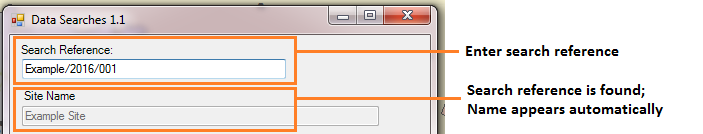
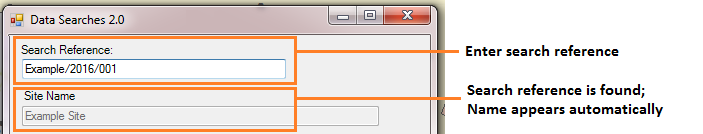
Final changes for ArcGIS v. 2.0
Final changes to this for ArcGIS version 2.0 including correct XML.

Changed region(s): [[0.0, 0.0896, 0.1792, 0.209]]

diff --git a/appendix/appendix.rst b/appendix/appendix.rst
@@ -38,20 +38,25 @@ Below is an example of XML that might be used to set up the Data Searches tool i
     <configuration>
     <!--- General attributes -->
     <DataSearches>
-        <!-- The database where all the data search details are stored. -->
+        <!-- The database where all the data search details are stored. This may be left blank. -->
         <Database>
             <value>H:\Access\DataSearchesDetails.mdb</value>
         </Database>
 
-        <!-- The field name of the search reference unique value. -->
+        <!-- The field name of the search reference unique value in the database. -->
         <RefColumn>
             <value>EnquiryRef</value>
         </RefColumn>
 
-        <!-- The field name of the search reference site name. -->
+        <!-- The field name of the search reference site name in the database. -->
         <SiteColumn>
             <value>SiteName</value>
         </SiteColumn>
+
+        <!-- Is a site name required? Yes/No -->
+        <RequireSiteName>
+            <value>No</value>
+        </RequireSiteName>
 
         <!-- The character(s) used to replace any special characters in folder
              names. Space is allowed -->
@@ -64,7 +69,7 @@ Below is an example of XML that might be used to set up the Data Searches tool i
             <value>H:\DataSearches\LayerFiles</value>
         </LayerFolder>
 
-        <!-- The file location where all data search folders are stored. -->
+        <!-- The file location where all data search output folders are stored. -->
         <SaveRootDir>
             <value>H:\DataSearches\Reports</value>
         </SaveRootDir>
@@ -110,6 +115,11 @@ Below is an example of XML that might be used to set up the Data Searches tool i
             <value>3</value>
         </DefaultBufferUnit>
 
+        <!-- Should the buffer be kept as a GIS file? Yes/No -->
+        <KeepBufferArea>
+            <value>Yes</value>
+        </KeepBufferArea>
+
         <!-- The name of the buffer symbology layer file -->
         <BufferLayerName>
             <value>BufferOutline.lyr</value>
@@ -131,6 +141,17 @@ Below is an example of XML that might be used to set up the Data Searches tool i
         <SearchColumn>
             <value>ref</value>
         </SearchColumn>
+
+        <!-- Should the search feature be kept as a GIS layer? Yes/No -->
+        <KeepSearchFeature>
+            <value>Yes</value>
+        </KeepSearchFeature>
+
+        <!-- The base name of the search layer symbology file (without the .lyr). 
+        Note the relevant extension (from SearchLayerExtensions) and the .lyr will be added -->
+        <SearchSymbologyBase>
+            <value>FeatureSymbology</value>
+        </SearchSymbologyBase>
 
         <!-- The buffer aggregate column values. Delimited with semicolons -->
         <AggregateColumns>
@@ -175,12 +196,12 @@ Below is an example of XML that might be used to set up the Data Searches tool i
 
         <!-- The column names of the combined sites table -->
         <CombinedSitesTable>
+            <Name>
+                <value>Sites_%subref%</value> <!-- do not include .txt or .csv -->
+            </Name>
             <Columns>
                 <value>Site_Type,Site_Name,Site_Area,Map_Label</value>
             </Columns>
-            <Suffix>
-                <value>_sites</value>
-            </Suffix>
             <Format>
                 <value>csv</value>
             </Format>
@@ -200,12 +221,12 @@ Below is an example of XML that might be used to set up the Data Searches tool i
                     the Table of Contents in ArcMap -->
                     <value>ExampleSpeciesPoints</value>
                 </LayerName>
-                <Prefix> <!-- The prefix used for any GIS data extracts -->
+                <GISOutputName> <!-- The prefix used for any GIS data extracts -->
                     <value>ExampleSpecies</value>
-                </Prefix>
-                <Suffix> <!-- The suffix used for any tabular extracts -->
+                </GISOutputName>
+                <TableOutputName> <!-- The suffix used for any tabular extracts -->
                     <value>_spp_pts</value>
-                </Suffix>
+                </TableOutputName>
                 <Columns> <!-- The columns to be used in the tabular extracts -->
                     <value>Species, Year, COUNT_Spec</value> <!-- Use commas to
                         separate. NOTE case sensitive! -->
@@ -215,7 +236,7 @@ Below is an example of XML that might be used to set up the Data Searches tool i
                     <value>Species, Year</value> <!-- Use commas to separate.
                            NOTE case sensitive! -->
                 </GroupColumns>
-                <StatisticsColumns> <!-- If grouping is used, any statistics
+                <StatisticsColumns> <!-- Any statistics
                     that should be generated. -->
                     <value>Species;COUNT</value><!-- example: area_ha;SUM$
                            Status;FIRST -->
@@ -311,12 +332,12 @@ Below is an example of XML that might be used to set up the Data Searches tool i
                 <LayerName>
                     <value>SACs</value> <!-- Name in TOC -->
                 </LayerName>
-                <Prefix>
+                <GISOutputName>
                     <value>SACs</value>
-                </Prefix>
-                <Suffix>
+                </GISOutputName>
+                <TableOutputName>
                     <value>_sacs</value>
-                </Suffix>
+                </TableOutputName>
                 <Columns>
                     <value>SAC_NAME, SAC_CODE</value> <!-- Use commas to separate.
                         NOTE case sensitive! -->
@@ -398,12 +419,12 @@ Below is an example of XML that might be used to set up the Data Searches tool i
                 <LayerName>
                     <value>SPAs</value>
                 </LayerName>
-                <Prefix>
+                <GISOutputName>
                     <value>SPAs</value>
-                </Prefix>
-                <Suffix>
+                </GISOutputName>
+                <TableOutputName>
                     <value>_spas</value>
-                </Suffix>
+                </TableOutputName>
                 <Columns>
                     <value>SPA_NAME</value> <!-- Use commas to separate.
                         NOTE case sensitive! -->
@@ -489,12 +510,12 @@ Below is an example of XML that might be used to set up the Data Searches tool i
                 <LayerName>
                     <value>NNRs</value>
                 </LayerName>
-                <Prefix>
+                <GISOutputName>
                     <value>NNRs</value>
-                </Prefix>
-                <Suffix>
+                </GISOutputName>
+                <TableOutputName>
                     <value>_nnrs</value>
-                </Suffix>
+                </TableOutputName>
                 <Columns>
                     <value>NNR_NAME, theBla</value> <!-- Use commas to separate.
                         NOTE case sensitive! -->

diff --git a/setup/setup.rst b/setup/setup.rst
@@ -223,11 +223,11 @@ The attributes that are required for each map layer are as follows:
 LayerName
 	The name of the layer as it is shown in the GIS interface. Characters that cannot be included in the layer name are ``/`` and ``&`` as they will cause the tool to fail. The characters ``-``, ``_``, ``+`` and ``\`` are permitted.
 
-Prefix
-	The prefix will be used to start the name of any GIS layer that is exported from this data layer during the search. The naming followed for exported GIS layers is ``Prefix_subref.shp``, e.g. ``SSSIs_001.shp``. The use of the ``subref`` keyword in this case is predefined and cannot be changed.
+_`GISOutputName`
+	The GISOutputName will be used to name any GIS layer that is exported from this data layer during the search. The keywords ``%ref%``, ``%shortref%``, ``%subref%``and ``%sitename%`` are allowed.
 
-Suffix
-	The suffix will be used to finish the name of any tabular file that is exported from this data layer during the search. The naming followed for exported tabular data is ``subref_Suffix.Format``, e.g. ``0001_SSSIs.csv``. The use of the ``subref`` keyword in this case is predefined and cannot be changed.
+TableOutputName
+	The TableOutputName will be used to name any tabular file that is exported from this data layer during the search. The keywords ``%ref%``, ``%shortref%``, ``%subref%``and ``%sitename%`` are allowed.
 
 Columns
 	A comma-separated list of columns that should be included in the tabular data exported from this data layer during the search. The column names are case sensitive and should match the column names in the source layer. Distance and Radius columns may be included by adding the keywords 'Distance' and 'Radius'. If results from any aggregate functions are to be included, they should follow the naming convention that ArcGIS employs for statistics fields, as follows:
@@ -245,7 +245,7 @@ _`GroupColumns`
 	A comma-separated list of the name(s) of any column(s) that should be used for grouping the outputs from the search on this layer. The column names are case sensitive and should match the column names in the source layer.
 
 _`StatisticsColumns`
-	If `GroupColumns`_ are specified, statistics may be requested from any columns in the input layer. The format of this attribute is as follows: ``ColumnName1;STATISTIC$ColumnName2;STATISTIC``, e.g. ``Area;SUM$Year;COUNT``. Note that in order to be included in the tabular output, the output columns for these statistics must be included in the Columns list as described above.
+	Statistics may be requested from any columns in the input layer whether `GroupColumns`_ is specified or not. The format of this attribute is as follows: ``ColumnName1;STATISTIC$ColumnName2;STATISTIC``, e.g. ``Area;SUM$Year;COUNT``. Note that in order to be included in the tabular output, the output columns for these statistics must be included in the Columns list as described above. If no `GroupColumns`_ have been defined, the statistics are calculated across the entire output.
 
 OrderColumns
 	A comma-separated list of columns by which the results should be ordered in the tabular output for this layer. The order of this list overrides any order in the `GroupColumns`_ attribute.
@@ -269,7 +269,7 @@ Format
 	The format of tabular output exported from this data layer during a search. Options are ``csv`` and ``txt``. If ``txt`` is selected as a format no column names will be included in the output. They are included for ``csv`` output.
 
 KeepLayer
-	A Yes/No attribute that defines whether a GIS data layer should be kept of the features selected in this map layer during the search. If ``No`` is entered all geographical data generated for this data layer during the process will be deleted. If ``Yes`` is entered, a data layer will be created that follows the naming convention ``Prefix_subref.shp``. The use of the ``subref`` keyword in this case is predefined and cannot be changed. 
+	A Yes/No attribute that defines whether a GIS data layer should be kept of the features selected in this map layer during the search. If ``No`` is entered all geographical data generated for this data layer during the process will be deleted. If ``Yes`` is entered, a data layer will be created that is named according to the `GISOutputName`_ attribute.
 
 	.. note:: 
 		If no features are selected in a data layer during a search, no new data layer will be created even if the KeepLayer attribute is set to ``Yes``.

diff --git a/execute/execute.rst b/execute/execute.rst
@@ -7,12 +7,12 @@ Running the tool
 
 The operation of the Data Searches tool is explained in this section. While the interface is similar between the ArcGIS and MapInfo implementations of the tool, there are some differences. These are pointed out where relevant throughout this document.
 
-As discussed in the :doc:`Setting up the tool <../setup/setup>` section, the Data Searches tool is operated from a GIS project file within which the data required to run the tool is already loaded. It also relies on an Access database with details about the searches, and a configuration document. Therefore, before running the tool, ensure the following conditions are met:
+As discussed in the :doc:`Setting up the tool <../setup/setup>` section, the Data Searches tool is operated from a GIS project file within which the data required to run the tool is already loaded. It also relies on an optional Access database with details about the searches, and a configuration document. Therefore, before running the tool, ensure the following conditions are met:
 
 - A GIS document has been created which contains both the search sites layer(s) and the data layers describing protected sites and species that will be queried, as required. 
-- An Access database exists that contains the relevant information about the searches, in the correct tables and formats.
+- Where applicable, an Access database exists that contains the relevant information about the searches, in the correct tables and formats.
 - The search sites layer(s) have a column that contains the unique reference for each search, and this reference has the correct format.
-- The XML configuration document has been set up correctly, both for general settings and for each individual layer that will be queried. It is named correctly.
+- The XML configuration document has been set up correctly, both for general settings and for each individual layer that will be queried. It is named correctly. For ArcGIS, both the launch configuration and a profile configuration have been set up.
 - The Data Searches tool has been installed and set up.
 
 .. seealso::
@@ -52,6 +52,16 @@ To open the Data Searches tool in MapInfo, select **Tools... -> Data Extractor**
 .. raw:: latex
 
    \newpage
+
+In ArcGIS, if more than one profile is found and the launch configuration is set up to allow the user to choose, a menu will appear asking the user to choose an XML profile (:numref:`figChooseXML`).
+
+.. _figChooseXML:
+
+.. figure:: figures/ChooseXMLFile.png
+	:align: center
+
+	Choosing an XML profile in ArcGIS
+
 
 If there are any structural issues with the XML document, the tool will display a message with the error it has encountered, and not load any further. If any of the map layers that are listed in the configuration document are not present in the active ArcGIS document or MapInfo workspace, a warning will be shown (:numref:`figLaunchWarningArcGIS`). The layers that are missing will not be loaded into the form and so cannot be included in the search process.
 
@@ -98,7 +108,7 @@ Provided that the XML document is otherwise correct, the form will display (:num
 Using the form
 ==============
 
-Enter the search reference in the **Search Reference** box. If the search reference exists in the linked Access database, the site name will be displayed in the Site Name box (:numref:`figSearchRefKnownArcGIS`).
+Enter the search reference in the **Search Reference** box. If the search reference exists in the linked Access database, the site name will be displayed in the Site Name box (:numref:`figSearchRefKnownArcGIS`). The search reference is case insensitive.
 
 .. _figSearchRefKnownArcGIS:
 
@@ -108,7 +118,7 @@ Enter the search reference in the **Search Reference** box. If the search refere
 	Site name displays automatically if the search reference is found
 
 
-If the search reference does not exist, but you are certain the search reference exists in the search layer(s), enter the site name manually (:numref:`figSearchRefUnknownArcGIS`).
+If the search reference does not exist, but you are certain the search reference exists in the search layer(s), enter the site name manually (:numref:`figSearchRefUnknownArcGIS`). If the site does not have a name and the attribute :ref:`RequireSiteName <requiresitename>` in the XML profile is set to No, the site name can be left blank.
 
 .. _figsearchRefUnknownArcGIS:
 
